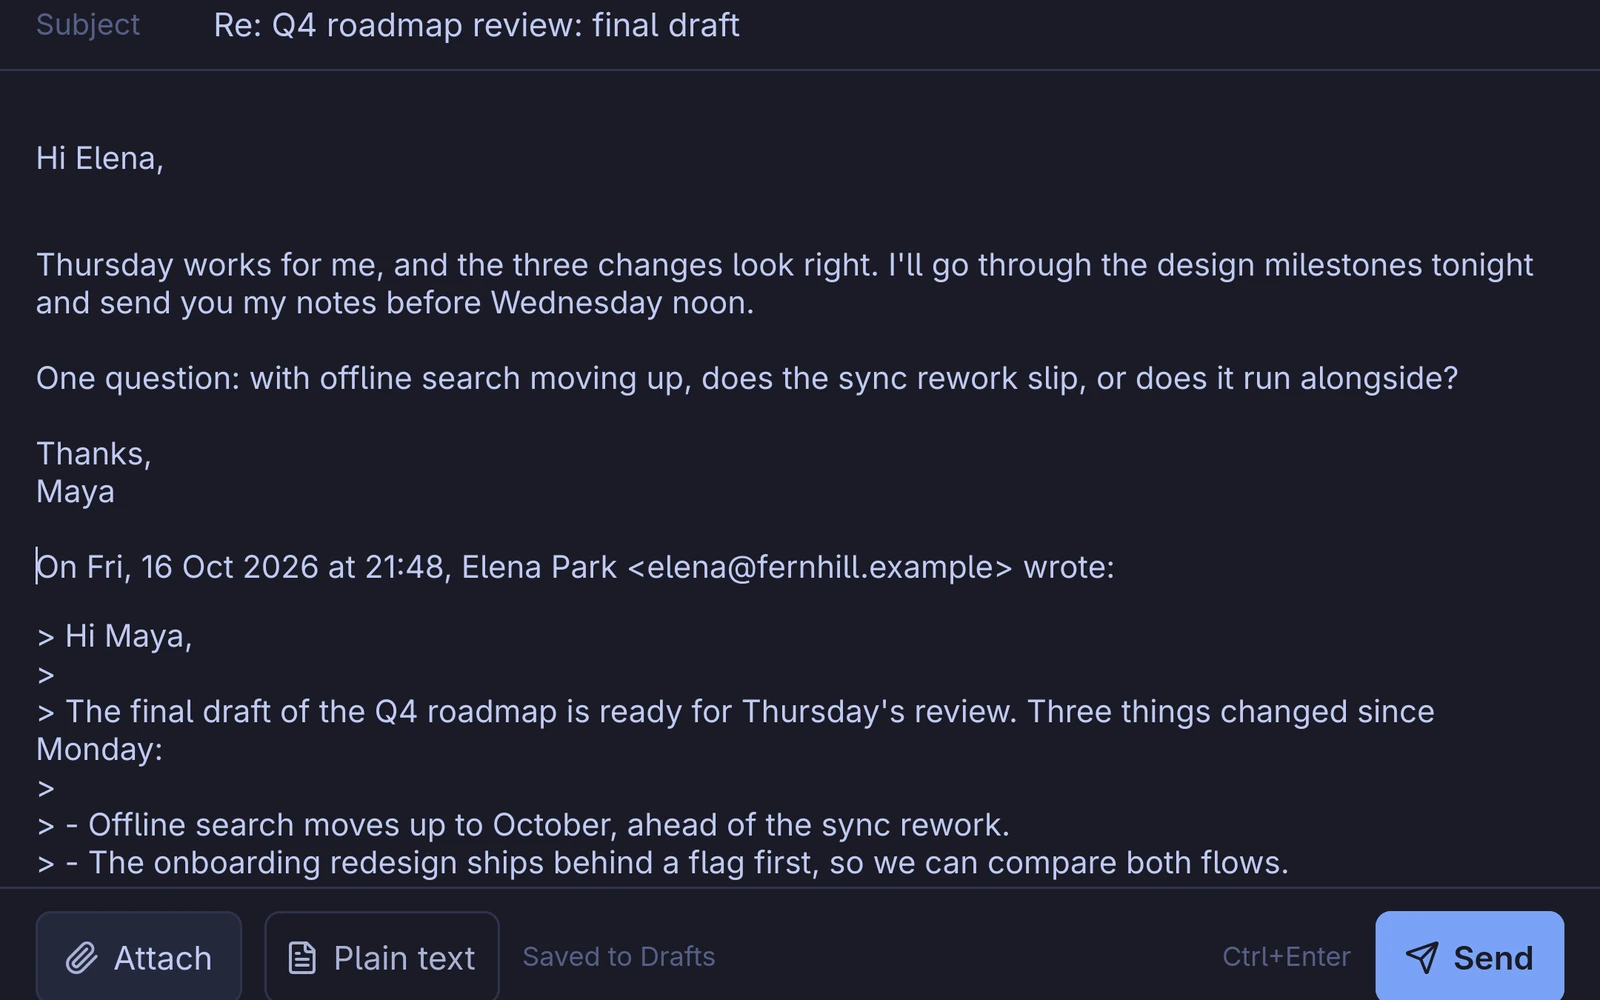
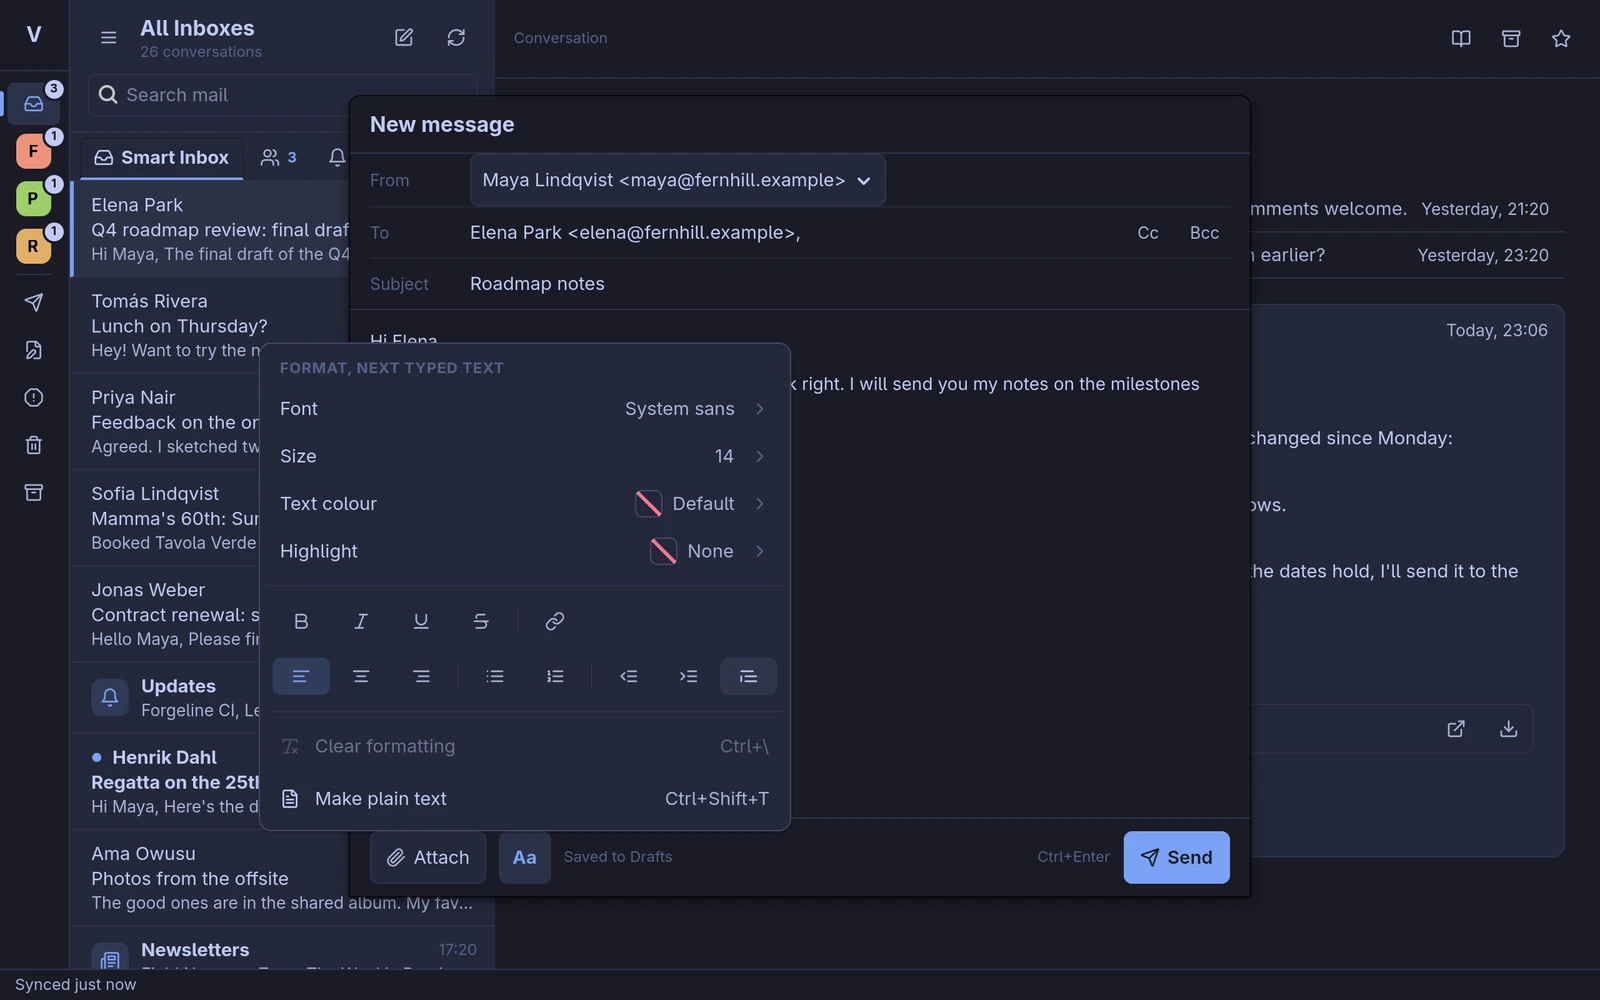
Retake the Search and Write stills in the full window
Write is a new message to Elena with the format panel open. The body of
the roadmap mail now blends into the theme.

diff --git a/src/shared/content.ts b/src/shared/content.ts
@@ -428,7 +428,7 @@ export const MAIL_PAGE = {
   stills: {
     allInboxes: "Vora Mail's All Inboxes: conversations from three accounts in one list, each row marked with its account's colour, and the accounts as tiles in the side rail.",
     search: "Vora Mail's search field after typing from:el in All Inboxes. A panel under the field suggests Elena Park from the contacts, and the one conversation that matches is open on the right.",
-    write: "Vora Mail's composer, replying to Elena Park's \"Q4 roadmap review: final draft\": two short paragraphs typed by Maya, her signature, and the quoted message below. The footer shows Attach, the Plain text switch, \"Saved to Drafts\" and Send.",
+    write: "Vora Mail's composer, writing a new message to Elena Park with the subject \"Roadmap notes\", in front of the main window. The \"Aa\" format panel is open above the footer, with font, size, text colour, highlight, bold, italic, underline, strikethrough, link, alignment, list and indent tools.",
   },
   guarantees: [
     // README.md "Privacy and security": "No Vora server", "no telemetry".
